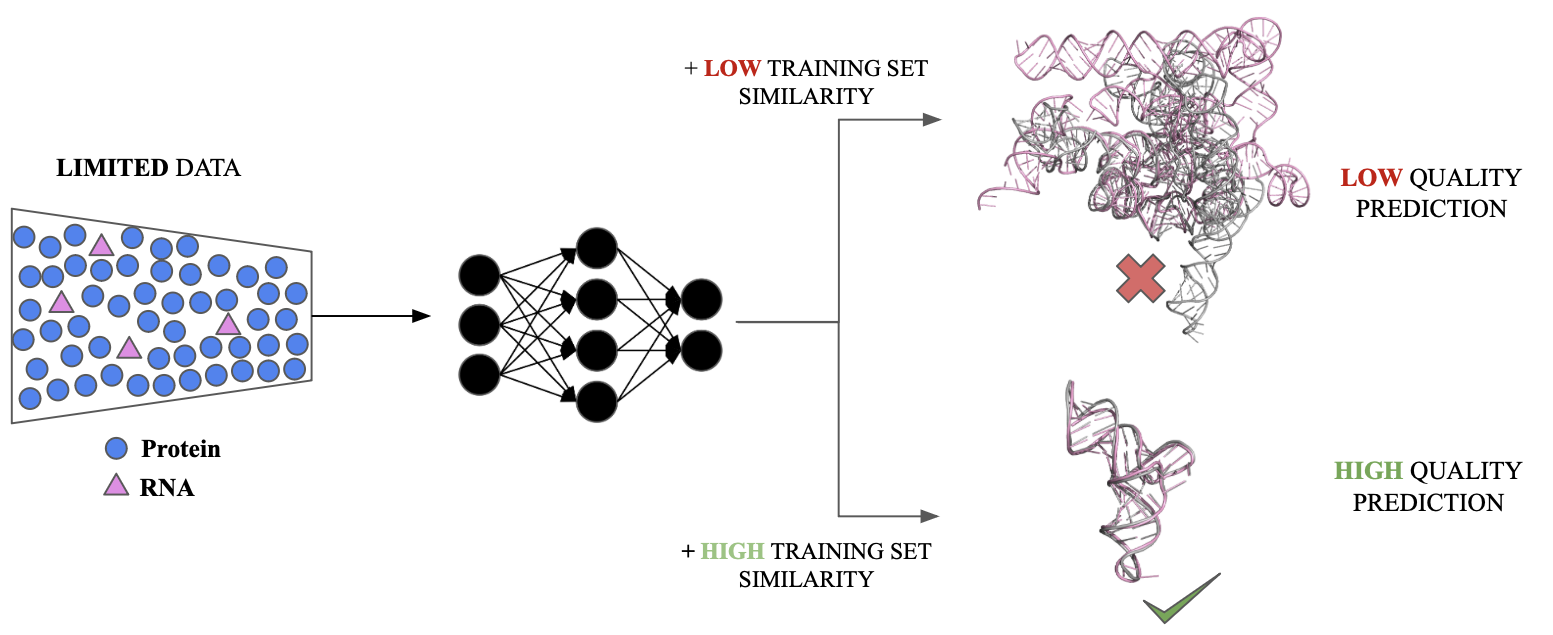
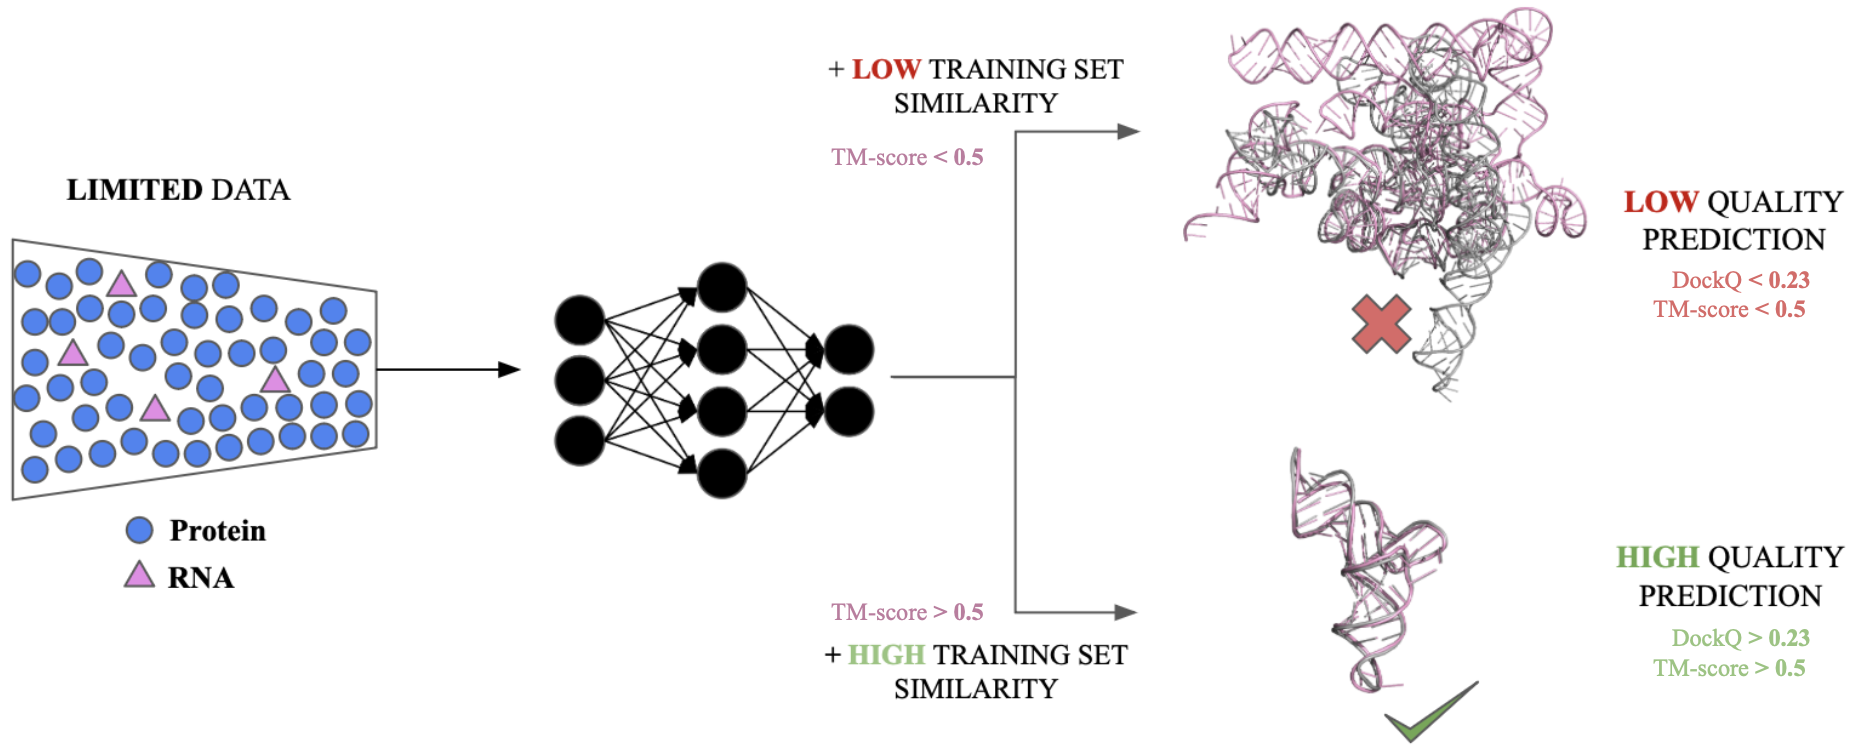
Update benchmark files

diff --git a/README.md b/README.md
@@ -31,11 +31,13 @@ The benchmark evaluates the performance of the following **eight** computational
 5) RhoFold+
 6) NuFold
 7) Chai
-8) Boltz
+8) Boltz-1
+9) DeepFoldRNA
+10) DRfold
 
 HelixFold 3, Boltz, Chai and DRFold are derived from AlphaFold 3 and considered AlphaFold-Based Models, while RhoFold+ and similar models leverage large language models (LLMs) for structure prediction (LLM-Based Models). Many models allow only for single RNA inference (NuFold, RhoFold+, trRosetta), while others are able to predict both monomeric and oligomeric RNAs, alone and in a complex with proteins.
 
-❗Chai was excluded from the RNA complex analysis, as its inference is currently limited to a maximum of 2048 tokens, and excluding RNA complexes with >2048 tokens would further reduce the size of our comparable PDB data. Boltz failed to predict copmlexes consisting of 5+ protein+RNA subunits due to "out-of-memory" issues, even after the update to a newer 0.4.0 version. Therefore, such complexes were not used in our analysis of benchmark data. This, along with filtering step resulted in a dataset comprising 86 single-chain RNA and 158 RNA complexes.
+❗Chai was excluded from the RNA complex analysis, as its inference is currently limited to a maximum of 2048 tokens, and excluding RNA complexes with >2048 tokens would further reduce the size of our comparable PDB data. Boltz failed to predict copmlexes consisting of 5+ protein+RNA subunits due to "out-of-memory" issues, even after the update to a newer 0.4.0 version. Therefore, such complexes were not used in our analysis of benchmark data. This, along with filtering step resulted in a dataset comprising 79 single-chain RNA and 158 RNA complexes.
 
 ❗Note that we cannot distribute ground turth structures from CASP16 targets used in the analysis. All solved structures will be available at a certain time at https://predictioncenter.org/casp16/targetlist.cgi
 